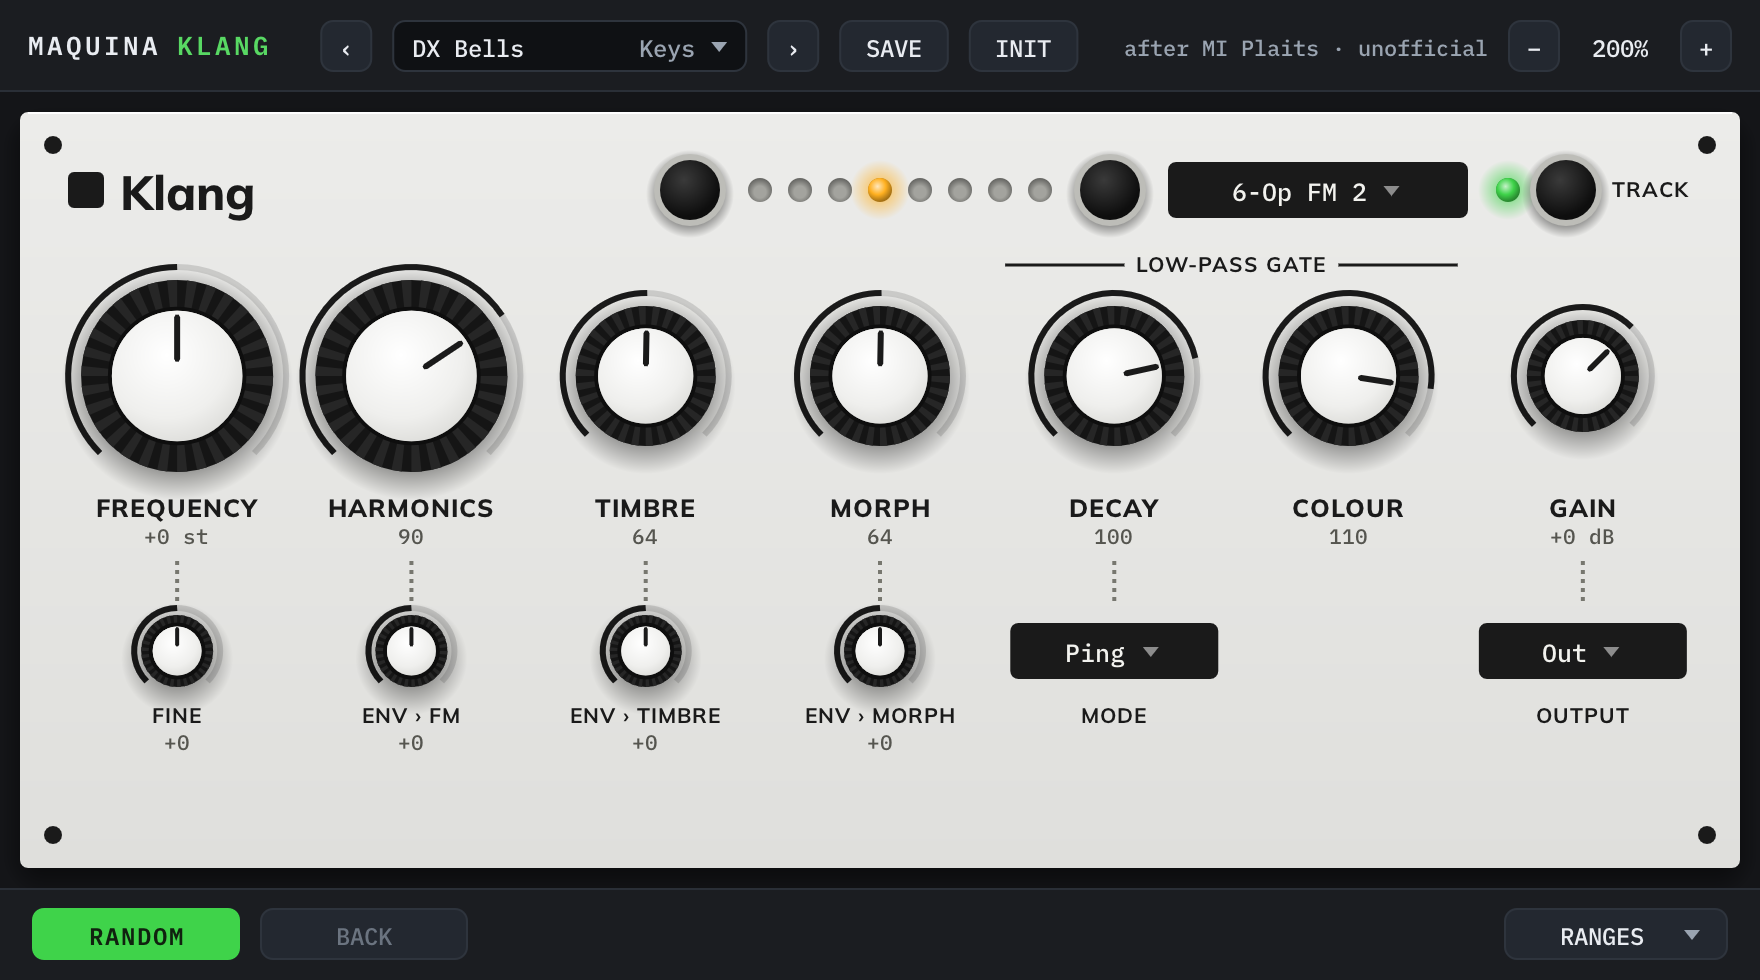
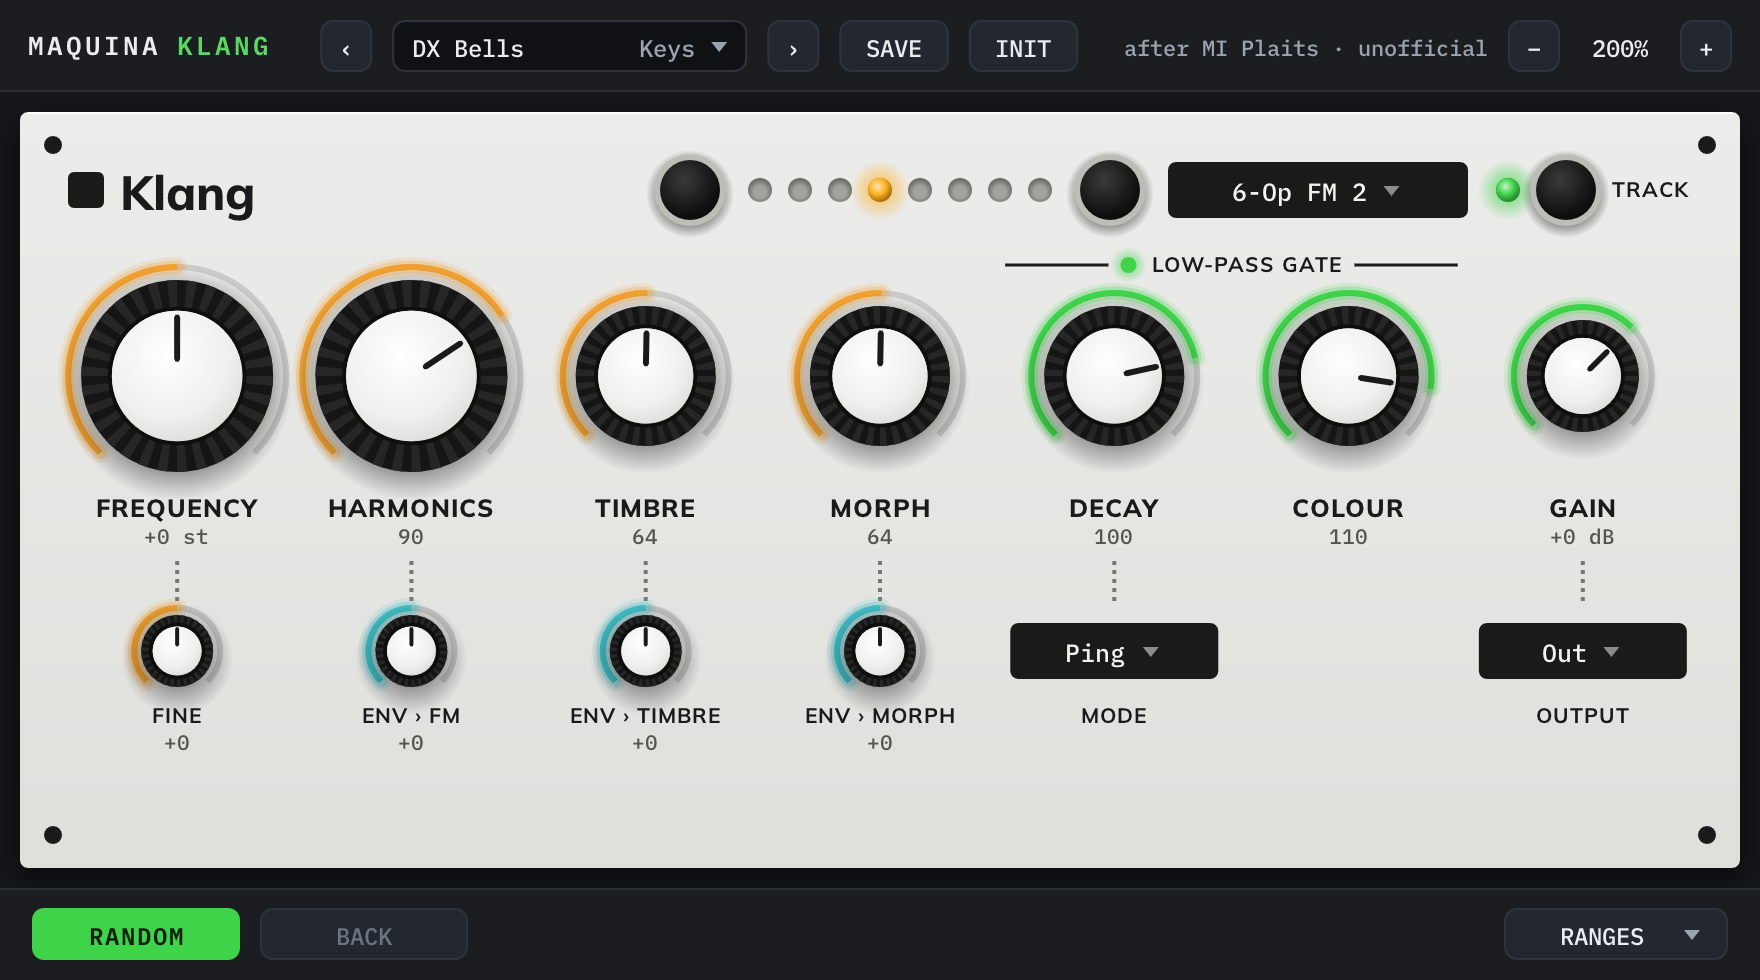
klang, klong: LED-coloured knob rings (Strings' scheme)
The value rings glow by function, as on Maquina Strings: the sound
source amber, its modulation / the resonator cyan, level and output
green.

- Klang: FREQUENCY, FINE, HARMONICS, TIMBRE, MORPH amber; ENV > FM /
  TIMBRE / MORPH cyan; DECAY, COLOUR, GAIN green; a green LED before
  LOW-PASS GATE
- Klong, Klong FX: FREQUENCY, FINE amber; STRUCTURE, BRIGHTNESS,
  DAMPING, POSITION cyan; GAIN green
- the colours are shared constants (kLedAmber / kLedCyan / kLedGreen)
- docs/screenshots: klang, klong, klong-fx

diff --git a/common/ui/Layouts.cpp b/common/ui/Layouts.cpp
@@ -226,6 +226,16 @@ void makeAcida(Layout& L)
 // ---------------------------------------------------------------------------
 // Mutable light grey: Klang (DESIGN-GUIDE §3.5; mockups/klang.html)
 
+// the knob rings' LED colours on the Mutable boards (Strings' scheme, used by Klang and Klong
+// too): amber = the sound source, cyan = its modulation / resonator / filter, green = level,
+// envelope, output
+constexpr Rgb kLedAmber { 0xf0, 0xa0, 0x30 }, kLedCyan { 0x3f, 0xc1, 0xc9 }, kLedGreen { 0x3f, 0xd3, 0x4a };
+inline void ledRing(Ctl& c, Rgb rgb)
+{
+    c.led = true;
+    c.ledRgb = rgb;
+}
+
 // a cluster: a row of LEDs / colour dots picking a value, round buttons, an LED
 Ctl& addCluster(Layout& L, const char* sym, const char* label, Box hit, float cy)
 {
@@ -265,25 +275,32 @@ void makeKlang(Layout& L)
     auto colX = [&](int k) { return x0 + k * (colW + gap) + colW / 2; };
     const float ky = gridY + 58, ly = gridY + 116 + 8, vy = ly + 14.5f;
     const float dy0 = vy + 13, dy1 = dy0 + 18, sy = dy1 + 26, sly = sy + 26 + 6.5f, svy = sly + 13.5f;
-    static const struct { const char* sym; const char* label; float size; const char* sub; const char* subLabel; bool win; } kCols[7] = {
-        { "coarse", "Frequency", 96, "fine", "Fine", false },
-        { "harmonics", "Harmonics", 96, "fm_env", "Env \xe2\x80\xba FM", false },
-        { "timbre", "Timbre", 70, "timbre_env", "Env \xe2\x80\xba Timbre", false },
-        { "morph", "Morph", 70, "morph_env", "Env \xe2\x80\xba Morph", false },
-        { "lpg_decay", "Decay", 70, "lpg_mode", "Mode", true },
-        { "lpg_colour", "Colour", 70, nullptr, nullptr, false },
-        { "gain", "Gain", 56, "output", "Output", true },
+    // ring colours: the oscillator amber, the envelope amounts cyan, the low-pass gate and gain green
+    static const struct { const char* sym; const char* label; float size; const char* sub; const char* subLabel; bool win;
+                          Rgb ring, subRing; } kCols[7] = {
+        { "coarse", "Frequency", 96, "fine", "Fine", false, kLedAmber, kLedAmber },
+        { "harmonics", "Harmonics", 96, "fm_env", "Env \xe2\x80\xba FM", false, kLedAmber, kLedCyan },
+        { "timbre", "Timbre", 70, "timbre_env", "Env \xe2\x80\xba Timbre", false, kLedAmber, kLedCyan },
+        { "morph", "Morph", 70, "morph_env", "Env \xe2\x80\xba Morph", false, kLedAmber, kLedCyan },
+        { "lpg_decay", "Decay", 70, "lpg_mode", "Mode", true, kLedGreen, kLedGreen },
+        { "lpg_colour", "Colour", 70, nullptr, nullptr, false, kLedGreen, kLedGreen },
+        { "gain", "Gain", 56, "output", "Output", true, kLedGreen, kLedGreen },
     };
     for (int k = 0; k < 7; ++k) {
         const float x = colX(k);
-        addKnob(L, kCols[k].sym, kCols[k].label, x, ly, ky, vy, kCols[k].size, colW);
+        ledRing(addKnob(L, kCols[k].sym, kCols[k].label, x, ly, ky, vy, kCols[k].size, colW), kCols[k].ring);
         if (!kCols[k].sub) continue;
         L.decos.push_back({ Deco::Dotted, { x, dy0, 0, dy1 - dy0 } });
         if (kCols[k].win) addWindow(L, kCols[k].sub, kCols[k].subLabel, x, sy, 104, 28, sly);
-        else addKnob(L, kCols[k].sub, kCols[k].subLabel, x, sly, sy, svy, 36, colW);
+        else ledRing(addKnob(L, kCols[k].sub, kCols[k].subLabel, x, sly, sy, svy, 36, colW), kCols[k].subRing);
     }
-    // LOW-PASS GATE over Decay and Colour
-    L.decos.push_back({ Deco::RuleText, { colX(4) - colW / 2, gridY + 2.5f, 2 * colW + gap, 0 }, "Low-pass gate" });
+    // LOW-PASS GATE over Decay and Colour, its LED in the gate's green
+    {
+        Deco d { Deco::RuleText, { colX(4) - colW / 2, gridY + 2.5f, 2 * colW + gap, 0 }, "Low-pass gate" };
+        d.led = true;
+        d.rgb = kLedGreen;
+        L.decos.push_back(d);
+    }
     makeDrawer(L, py + ph);
 }
 
@@ -313,16 +330,18 @@ void makeKlong(Layout& L)
     }
     // knobs (positions relative to the area under the top bar)
     const float ox = x0, oy = cy + 17 + 18;
-    addKnob(L, "coarse", "Frequency", ox + 110, oy + 140 + 7.8f, oy + 80, oy + 140 + 24.4f, 96, 140);
+    // ring colours: the pitch amber, the resonator cyan, gain green
+    ledRing(addKnob(L, "coarse", "Frequency", ox + 110, oy + 140 + 7.8f, oy + 80, oy + 140 + 24.4f, 96, 140), kLedAmber);
     {
         Ctl& f = addKnob(L, "fine", "Fine", ox + 182, oy + 126 + 6.5f, oy + 138, oy + 126 + 21.8f, 36, 40);
         f.labelX = ox + 182 + 28;
         f.w = ox + 182 + 28 + 50 - f.x;
+        ledRing(f, kLedAmber);
     }
-    addKnob(L, "structure", "Structure", ox + 370, oy + 140 + 7.8f, oy + 80, oy + 140 + 24.4f, 96, 140);
-    addKnob(L, "brightness", "Brightness", ox + 75, oy + 305 + 7.8f, oy + 258, oy + 305 + 24.4f, 70, 140);
-    addKnob(L, "damping", "Damping", ox + 240, oy + 305 + 7.8f, oy + 258, oy + 305 + 24.4f, 70, 140);
-    addKnob(L, "position", "Position", ox + 405, oy + 305 + 7.8f, oy + 258, oy + 305 + 24.4f, 70, 140);
+    ledRing(addKnob(L, "structure", "Structure", ox + 370, oy + 140 + 7.8f, oy + 80, oy + 140 + 24.4f, 96, 140), kLedCyan);
+    ledRing(addKnob(L, "brightness", "Brightness", ox + 75, oy + 305 + 7.8f, oy + 258, oy + 305 + 24.4f, 70, 140), kLedCyan);
+    ledRing(addKnob(L, "damping", "Damping", ox + 240, oy + 305 + 7.8f, oy + 258, oy + 305 + 24.4f, 70, 140), kLedCyan);
+    ledRing(addKnob(L, "position", "Position", ox + 405, oy + 305 + 7.8f, oy + 258, oy + 305 + 24.4f, 70, 140), kLedCyan);
     L.decos.push_back({ Deco::Dotted, { ox + 496, oy + 10, 0, py + ph - 20 - 10 - (oy + 10) } });
     // right column: OUTPUT (ODD | EVEN), NOTES (Klong FX), GAIN
     const float rc = ox + 520 + 120;
@@ -334,7 +353,7 @@ void makeKlong(Layout& L)
     }
     if (fx) addWindow(L, "note_source", "Notes", rc, oy + 150 + 14, 120, 28, oy + 178 + 8 + 7.8f);
     const float gy = oy + (fx ? 268 : 212);
-    addKnob(L, "gain", "Gain", ox + 640, gy + 40 + 7.8f, gy, gy + 40 + 24.4f, 52, 140);
+    ledRing(addKnob(L, "gain", "Gain", ox + 640, gy + 40 + 7.8f, gy, gy + 40 + 24.4f, 52, 140), kLedGreen);
     makeDrawer(L, py + ph);
 }
 
@@ -344,7 +363,7 @@ void makeKlong(Layout& L)
 // Knob rings glow in their layer's colour: amber STRINGS, cyan WAVE + FILTER, the theme's green
 // BLEND, AMP, FX.
 
-constexpr Rgb kStrAmber { 0xf0, 0xa0, 0x30 }, kStrCyan { 0x3f, 0xc1, 0xc9 }, kStrGreen { 0x3f, 0xd3, 0x4a };
+constexpr Rgb kStrAmber = kLedAmber, kStrCyan = kLedCyan, kStrGreen = kLedGreen;
 
 void makeStrings(Layout& L)
 {

diff --git a/common/DrumUI.cpp b/common/DrumUI.cpp
@@ -1212,14 +1212,16 @@ protected:
             for (char& ch : t) ch = char(std::toupper(ch));
             textLetterSpacing(10.5f * 0.06f);
             const float tw = textWidth(t.c_str()), cx = d.b.x + d.b.w / 2;
+            const float ledW = d.led ? 16.f : 0.f; // an LED before the title (Klang's LOW-PASS GATE)
             textAlign(ALIGN_CENTER | ALIGN_MIDDLE);
             fillColor(col(T.print));
-            text(cx, d.b.y, t.c_str(), nullptr);
+            text(cx + ledW / 2, d.b.y, t.c_str(), nullptr);
             textLetterSpacing(0);
             beginPath();
-            rect(d.b.x, d.b.y - 0.75f, d.b.w / 2 - tw / 2 - 6, 1.5f);
-            rect(cx + tw / 2 + 6, d.b.y - 0.75f, d.b.w / 2 - tw / 2 - 6, 1.5f);
+            rect(d.b.x, d.b.y - 0.75f, d.b.w / 2 - tw / 2 - 6 - ledW / 2, 1.5f);
+            rect(cx + tw / 2 + 6 + ledW / 2, d.b.y - 0.75f, d.b.w / 2 - tw / 2 - 6 - ledW / 2, 1.5f);
             fill();
+            if (d.led) drawSmallLed(cx - tw / 2 - ledW / 2 + 4, d.b.y, true, d.rgb);
             useFace(*this, "mono");
             break;
         }
